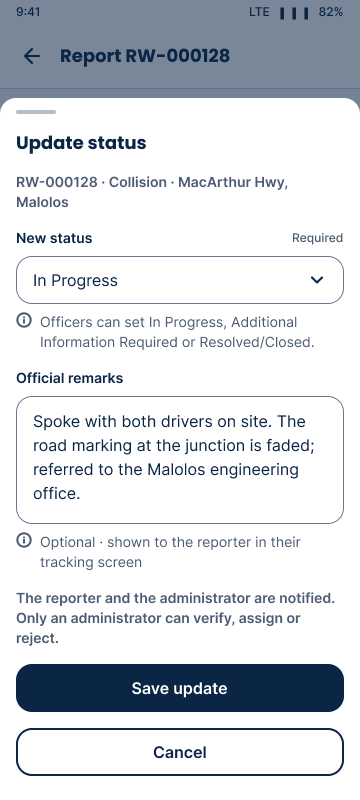
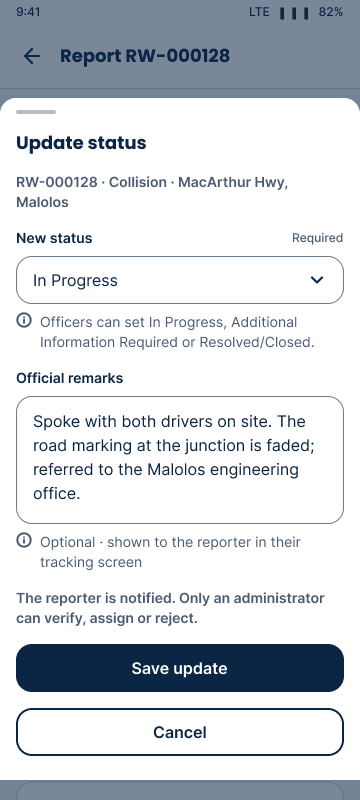
docs(ui-design): re-export 5 screens after Figma fixes
Edit profile and Change password notes match the built app, O3/O4 say only the reporter is
notified, and the W12 500 heading wraps at 390 px.

Changed region(s): [[0.0, 0.7188, 1.0, 1.0]]

diff --git a/docs/ui-design/screens/README.md b/docs/ui-design/screens/README.md
@@ -14,7 +14,6 @@ File names follow the frame names: `<screen>-<state>[-dark][-<width>].png`, for 
 `w4-report-verified-1440.png` is "W4/Report details/Verified (1440)" and `m6-my-reports-empty.png` is
 "M6/My reports/Empty".
 
-Known gaps in the Figma frames themselves (not fixed by the export):
-- `settings-edit-profile.png` and `settings-change-password.png` still say the endpoints are "not built yet";
-  they were built on Oct 21 (#25).
-- `w12-500-390.png`: the heading "Something went wrong on our end" does not wrap and is clipped at phone width.
+Figma fixes on Oct 21 (frames re-exported): Edit profile no longer shows the "not built yet" endpoint note,
+Change password's note matches the app, O3 and O4 say only the reporter is notified (as the API does), and the
+W12 500 heading wraps at 390 px.
